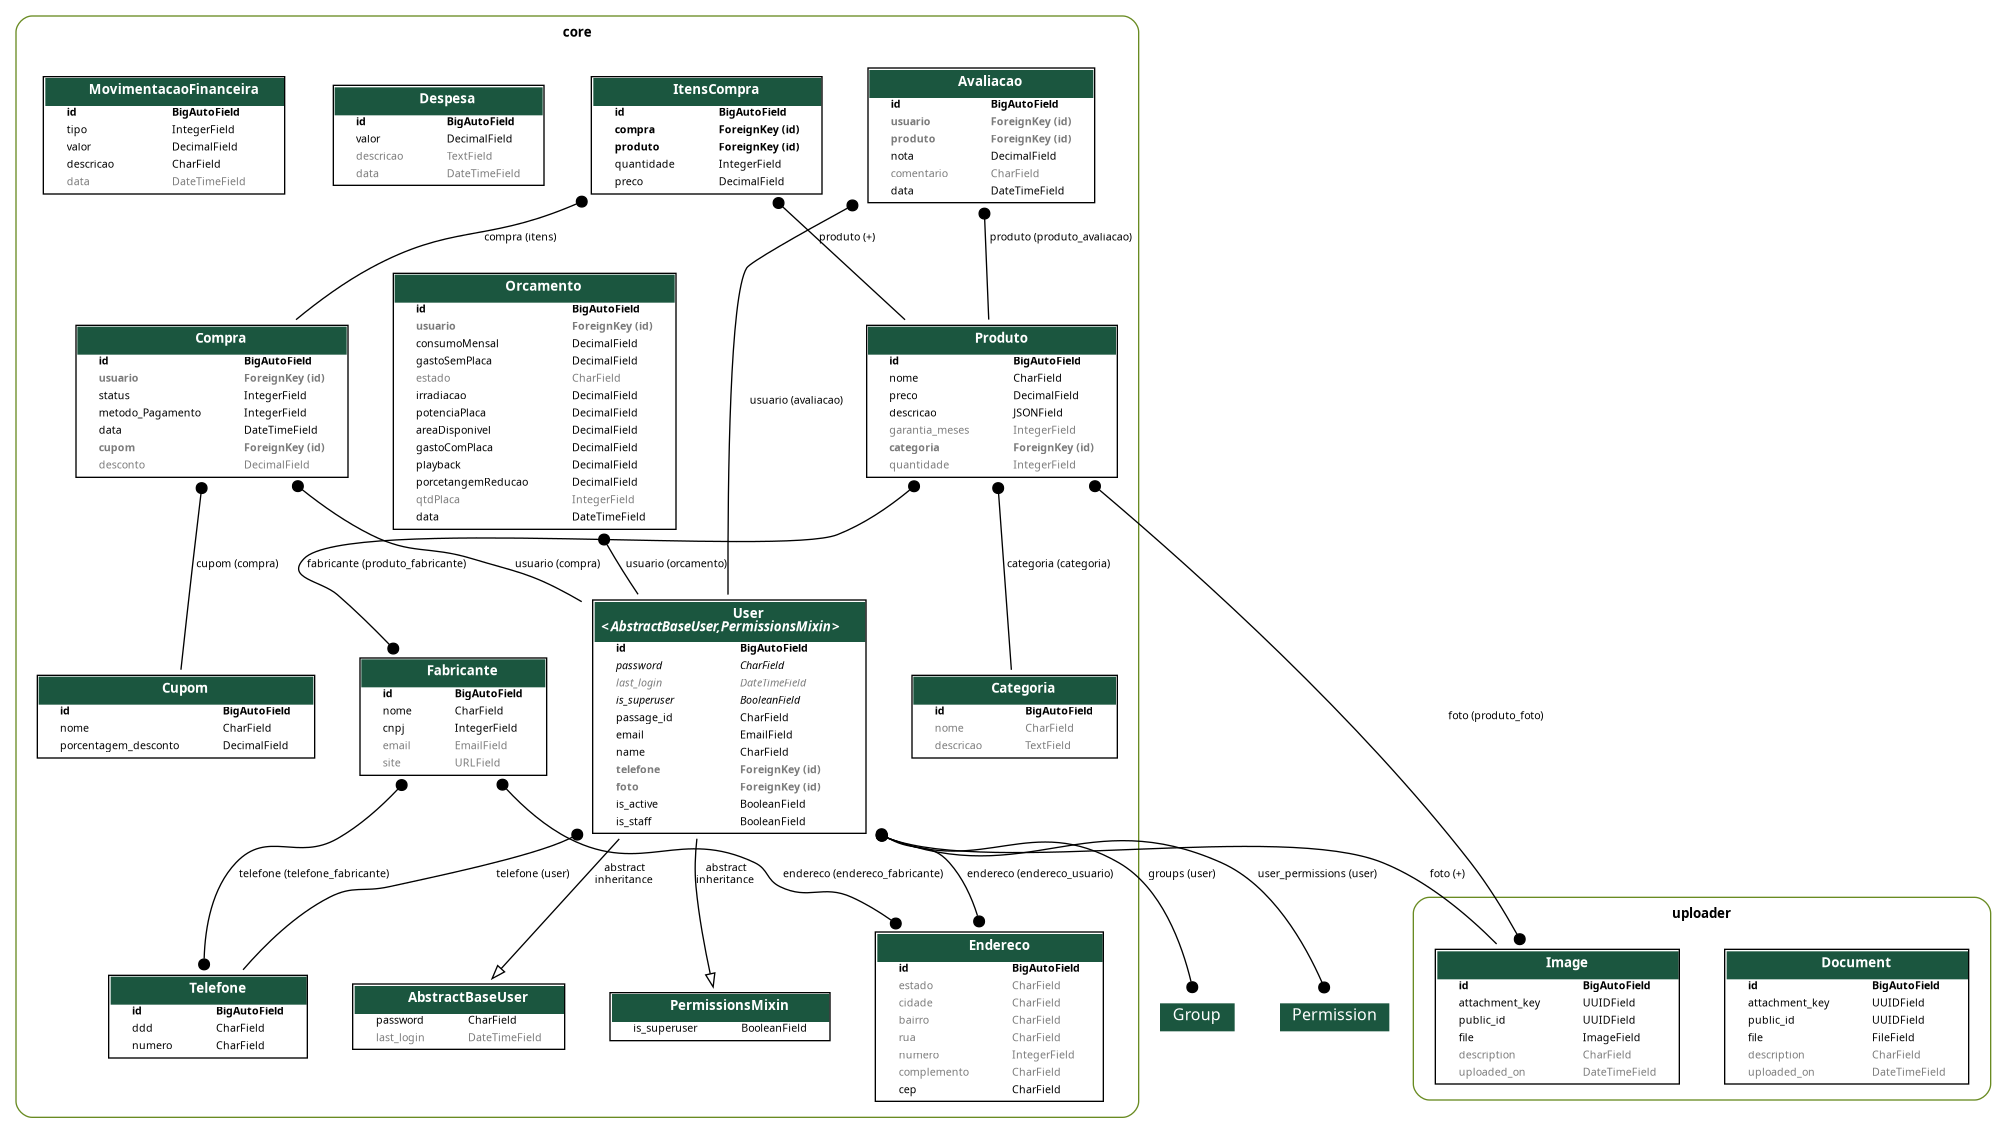
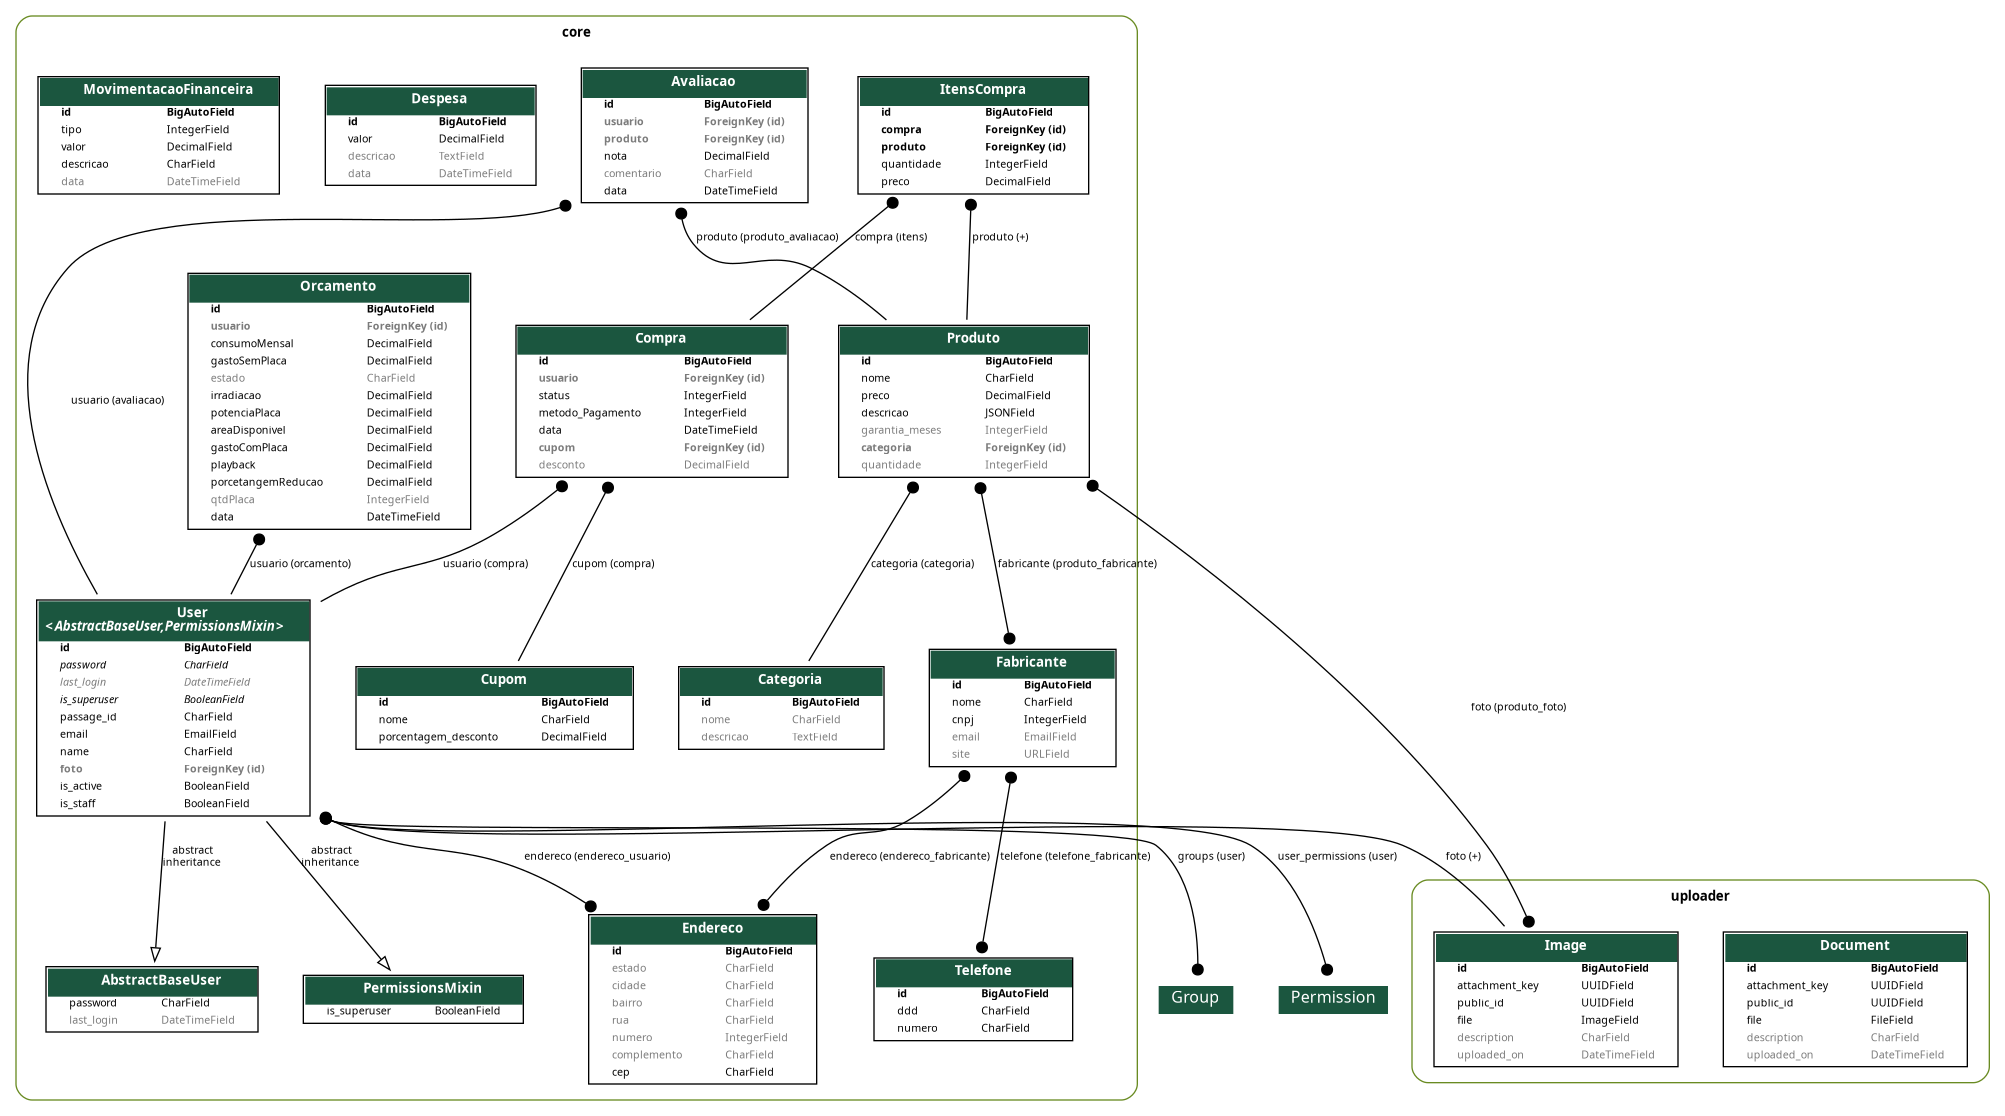
FIX: Telefone retirado #40

diff --git a/core/models/user.py b/core/models/user.py
@@ -45,7 +45,7 @@ class User(AbstractBaseUser, PermissionsMixin):
     email = models.EmailField(max_length=255, unique=True)
     name = models.CharField(max_length=255)
     endereco =  models.ManyToManyField(Endereco, related_name="endereco_usuario", blank=True)
-    telefone = models.ForeignKey(Telefone, on_delete=models.SET_NULL, null=True, blank=True)  # Relacionamento com Telefone
+  
     foto = models.ForeignKey(
         Image,
         related_name="+",

diff --git a/core/migrations/0038_remove_user_telefone.py b/core/migrations/0038_remove_user_telefone.py
@@ -1,0 +1,17 @@
+# Generated by Django 4.2.16 on 2024-11-06 13:52
+
+from django.db import migrations
+
+
+class Migration(migrations.Migration):
+
+    dependencies = [
+        ("core", "0037_remove_user_telefone_user_telefone"),
+    ]
+
+    operations = [
+        migrations.RemoveField(
+            model_name="user",
+            name="telefone",
+        ),
+    ]
